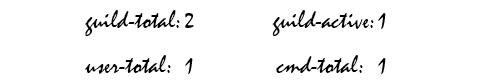
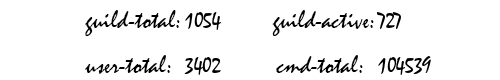
feat(api/web): add vue to get bot log for status-web

diff --git a/code/web/ahri/index.html b/code/web/ahri/index.html
@@ -801,8 +801,39 @@ input {
 
 
 </style><title>状态图表-引导页 | Kook-Valorant-Bot</title>
+<!-- vue & ajax -->
+<script src="https://code.jquery.com/jquery-1.12.1.min.js"></script>
+<script src="https://cdn.jsdelivr.net/npm/vue/dist/vue.js"></script>
 </head>
 <body class='typora-export os-windows'><div class='typora-export-content'>
-<div id='write'  class=''><h2 id='欢迎来到Kook-Valorant-Bot状态页'><span>欢迎来到 Kook-Valorant-Bot 状态页</span></h2><p><span>项目地址 </span><a href='https://github.com/Valorant-Shop-CN/Kook-Valorant-Bot'><span>Github Valorant-Shop-CN/Kook-Valorant-Bot</span></a></p><p><span>本页统计图均由机器人自行根据命令日志生成，每日0点更新，使用了</span><code>pyg2plot</code><span>库。</span></p><ul><li><p><a href='./ngu/'><span>新服务器/新用户 增长图</span></a></p></li><li><p><a href='./gu/'><span>服务器/用户/命令 日活动图</span></a></p></li><li><p><span>更多可视图表待完善...</span></p></li></ul><p><span>有效数据统计始于23.04.04。先前的数据由于键值缺失，无参考意义。</span></p></div></div>
+<div id='write'  class='myapp'><h2 id='欢迎来到Kook-Valorant-Bot状态页'><span>欢迎来到 Kook-Valorant-Bot 状态页</span></h2><p><span>项目地址 Github </span><a href='https://github.com/Valorant-Shop-CN/Kook-Valorant-Bot'><span>Valorant-Shop-CN/Kook-Valorant-Bot</span></a></p>
+<div id="myapp">
+<figure><table><thead><tr><th><span>信息</span></th><th><span>数量</span></th></tr></thead><tbody><tr><td><span>已加入服务器数</span></td><td><span>{{log.guild_total}}</span></td></tr><tr><td><span>活跃服务器数</span></td><td><span>{{log.guild_active}}</span></td></tr><tr><td><span>用户总数</span></td><td><span>{{log.user_total}}</span></td></tr><tr><td><span>命令总数</span></td><td><span>{{log.cmd_total}}</span></td></tr></tbody></table></figure></div>
+<p><span>统计图均由机器人自行根据命令日志生成，每日0点更新，使用了 </span><code>pyg2plot</code><span> 库。</span></p><ul><li><p><a href='./ngu/'><span>新服务器/新用户 增长图</span></a></p></li><li><p><a href='./gu/'><span>服务器/用户/命令 日活动图</span></a></p></li><li><p><span>更多可视图表待完善...</span></p></li></ul>
+<p><span>有效数据统计始于23.04.05。先前的数据由于键值缺失，无参考意义。</span></p><ul><li><p><a href='/'><span>回到主页</span></a></p></li><li><p><a href='https://blog.musnow.top/posts/847195815/?utm_source=ahri-status'><span>回到帮助文档</span></div></div>
 </body>
+
+<script>
+	let app = new Vue({
+		el: '#myapp',
+		data: {
+			log: {}
+		},
+		methods: {
+			get_bot_log: function () {
+				$.ajax({
+					url: "/api/v2/bot-log",
+					type: "get",
+					context: this,
+					success: function (result, status, xhr) {
+						this.log = result;
+					}
+				})
+			}
+		}
+	});
+	app.get_bot_log();// 写在这里代表初始化页面的时候要调用一下
+</script>
+
+
 </html>

diff --git a/code/api.py b/code/api.py
@@ -217,6 +217,26 @@ async def aifadian_webhook(request):
                             content_type='application/json')
 
 
+# 机器人加入的服务器/命令总数等等信息
+from pkg.utils.log.BotLog import log_bot_list
+@routes.get('/bot-log')
+async def bot_log_get(request):
+    _log.info(f"request | /bot-log")
+    try:
+        ret_dict = await log_bot_list()
+        ret = {
+            "guild_total":ret_dict["guild"]["guild_total"],
+            "guild_active":ret_dict["guild"]["guild_active"],
+            "user_total":ret_dict["user"]["user_total"],
+            "cmd_total":ret_dict["cmd_total"]
+        }
+        return web.Response(body=json.dumps(ret, indent=2, sort_keys=True, ensure_ascii=False),
+                    content_type='application/json')
+    except:
+        _log.exception("Exception in /afd")
+        return web.Response(status=503)
+
+
 app = web.Application()
 app.add_routes(routes)
 if __name__ == '__main__':

diff --git a/code/pkg/Admin.py b/code/pkg/Admin.py
@@ -34,7 +34,7 @@ def init(bot:Bot,bot_upd_img:Bot,debug_ch:Channel):
         BotLog.log_msg(msg)
         try:
             # 如果不是管理员直接退出，不要提示
-            if is_admin(msg.author_id):return
+            if not is_admin(msg.author_id):return
             # 必须要at机器人，或者私聊机器人
             cur_bot = await bot.client.fetch_me()
             if isinstance(msg,PrivateMessage) or f"(met){cur_bot.id}(met)" in at_text:
@@ -91,7 +91,7 @@ def init(bot:Bot,bot_upd_img:Bot,debug_ch:Channel):
         try:
             if not is_admin(msg.author_id):return
             
-            ret_dict = await BotLog.log_bot_list(msg)  # 获取用户/服务器列表
+            ret_dict = await BotLog.log_bot_list()  # 获取用户/服务器列表
             res_text = await BotLog.log_bot_list_text(ret_dict,bot)  # 获取text
 
             cm = CardMessage()

diff --git a/code/pkg/utils/log/BotLog.py b/code/pkg/utils/log/BotLog.py
@@ -146,7 +146,7 @@ async def log_bot_img() -> None:
 
 
 # bot用户记录dict处理
-async def log_bot_list(msg: Message) -> FileManage:
+async def log_bot_list() -> FileManage:
     global BotUserDict
     # 加入的服务器数量，api获取
     Glist = await guild_list()
